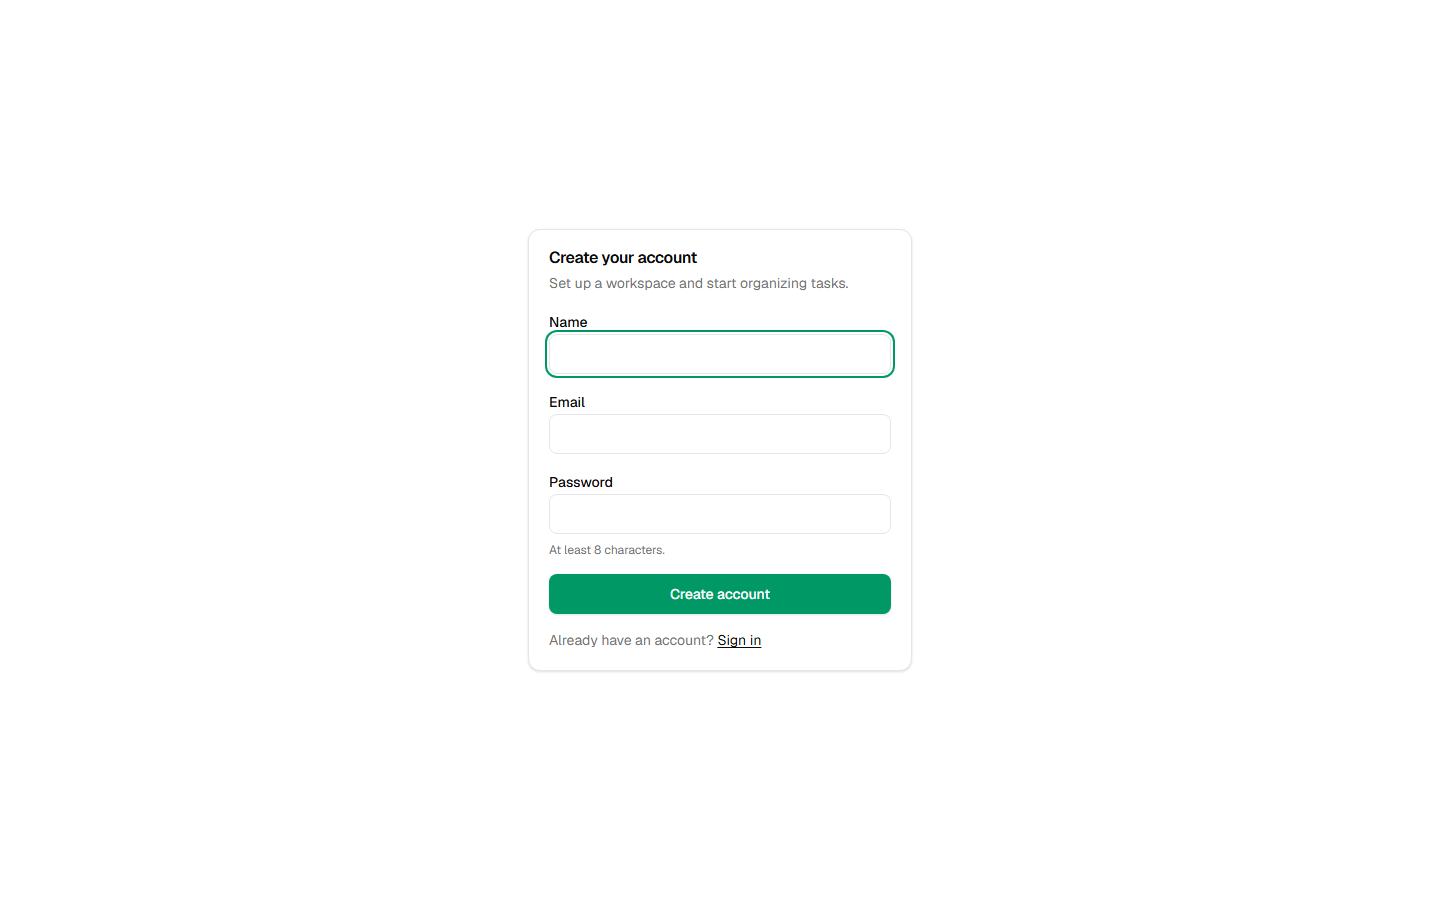
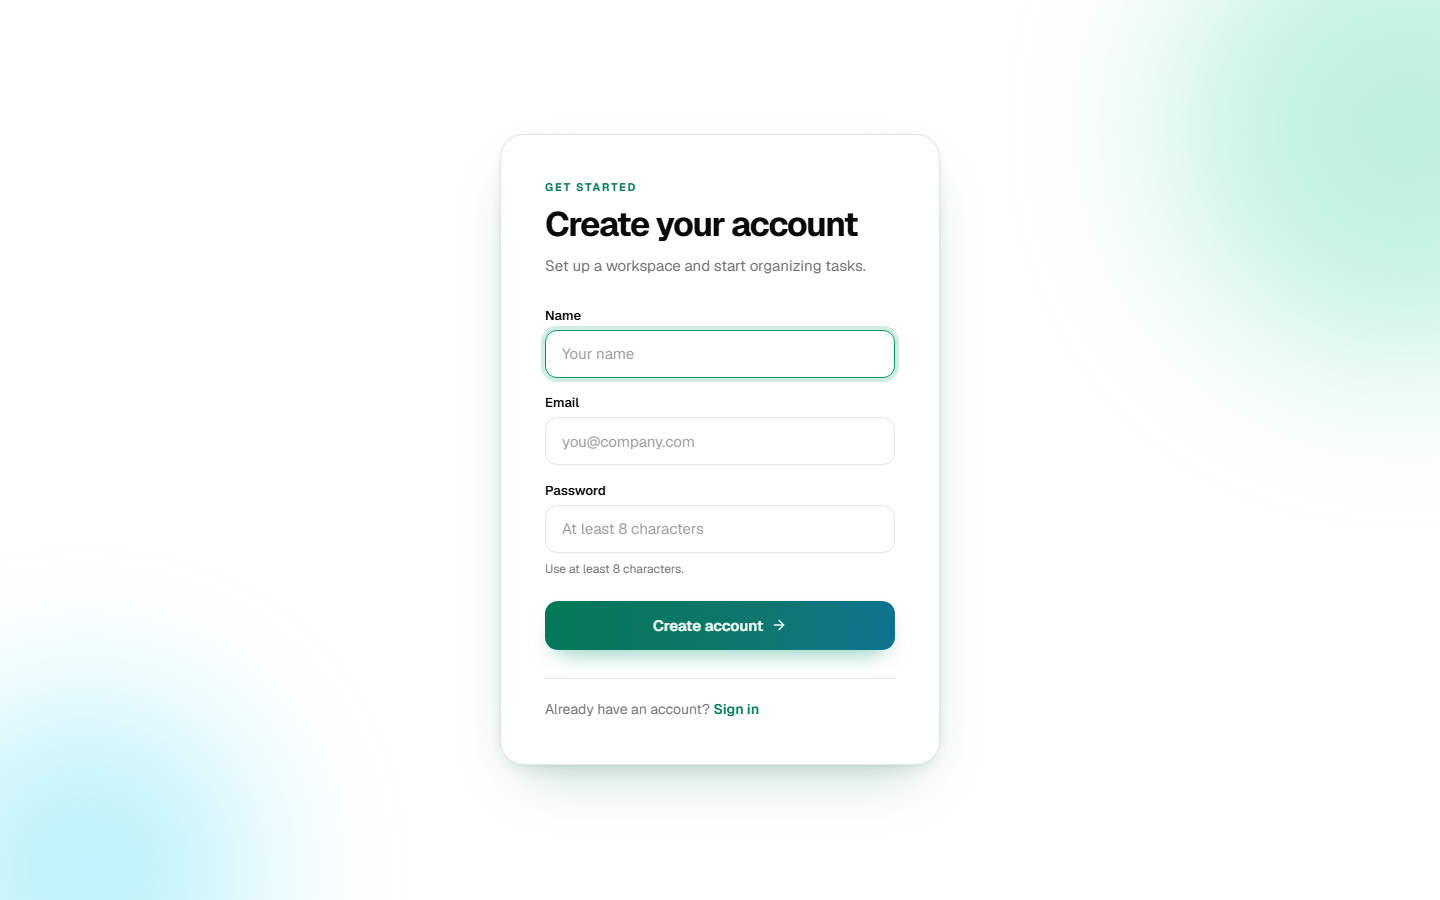
Polish signup and setup pages with shared auth styling
- Move auth styles to shared app/auth.css and apply emerald/cyan gradient
  background with drifting orbs to /signup and /setup
- Restyle both forms with elevated cards, large headings, focus glow,
  gradient submit buttons with loaders and accessible error states
- Refresh README signup screenshot

diff --git a/app/signup/signup-form.tsx b/app/signup/signup-form.tsx
@@ -3,9 +3,9 @@
 import { useState } from 'react';
 import Link from 'next/link';
 import { Button } from '@/components/ui/button';
-import { Card, CardContent, CardDescription, CardHeader, CardTitle } from '@/components/ui/card';
 import { Input } from '@/components/ui/input';
 import { Label } from '@/components/ui/label';
+import { ArrowRight, Kanban, Loader2 } from 'lucide-react';
 
 export default function SignUpForm() {
   const [name, setName] = useState('');
@@ -42,35 +42,75 @@ export default function SignUpForm() {
   };
 
   return (
-    <Card className="w-full max-w-sm">
-      <CardHeader>
-        <CardTitle>Create your account</CardTitle>
-        <CardDescription>Set up a workspace and start organizing tasks.</CardDescription>
-      </CardHeader>
-      <CardContent>
-        <form onSubmit={submit} className="space-y-4">
-          <div className="space-y-2">
-            <Label htmlFor="name">Name</Label>
-            <Input id="name" name="name" autoComplete="name" value={name} onChange={(e) => setName(e.target.value)} required autoFocus />
-          </div>
-          <div className="space-y-2">
-            <Label htmlFor="email">Email</Label>
-            <Input id="email" name="email" type="email" autoComplete="username" value={email} onChange={(e) => setEmail(e.target.value)} required />
-          </div>
-          <div className="space-y-2">
-            <Label htmlFor="password">Password</Label>
-            <Input id="password" name="password" type="password" autoComplete="new-password" minLength={8} value={password} onChange={(e) => setPassword(e.target.value)} required />
-            <p className="text-xs text-muted-foreground">At least 8 characters.</p>
-          </div>
-          {error && <p className="text-sm text-destructive" role="alert">{error}</p>}
-          <Button type="submit" className="w-full" disabled={submitting}>
-            {submitting ? 'Creating...' : 'Create account'}
-          </Button>
-        </form>
-        <p className="mt-4 text-sm text-muted-foreground">
-          Already have an account? <Link href="/login" className="text-foreground underline underline-offset-2">Sign in</Link>
-        </p>
-      </CardContent>
-    </Card>
+    <div className='auth-card'>
+      <div className='auth-mobile-brand'>
+        <span className='auth-brand-mark'><Kanban className='h-5 w-5' aria-hidden='true' /></span>
+      </div>
+
+      <p className='auth-eyebrow'>Get started</p>
+      <h1 className='auth-title'>Create your account</h1>
+      <p className='auth-subtitle'>Set up a workspace and start organizing tasks.</p>
+
+      <form onSubmit={submit} className='auth-form'>
+        <div className='auth-field'>
+          <Label htmlFor='name' className='auth-label'>Name</Label>
+          <Input
+            id='name'
+            className='auth-input'
+            name='name'
+            autoComplete='name'
+            placeholder='Your name'
+            value={name}
+            onChange={(e) => setName(e.target.value)}
+            required
+            autoFocus
+          />
+        </div>
+        <div className='auth-field'>
+          <Label htmlFor='email' className='auth-label'>Email</Label>
+          <Input
+            id='email'
+            className='auth-input'
+            name='email'
+            type='email'
+            autoComplete='username'
+            placeholder='you@company.com'
+            value={email}
+            onChange={(e) => setEmail(e.target.value)}
+            required
+          />
+        </div>
+        <div className='auth-field'>
+          <Label htmlFor='password' className='auth-label'>Password</Label>
+          <Input
+            id='password'
+            className='auth-input'
+            name='password'
+            type='password'
+            autoComplete='new-password'
+            minLength={8}
+            placeholder='At least 8 characters'
+            value={password}
+            onChange={(e) => setPassword(e.target.value)}
+            required
+          />
+          <p className='text-xs text-muted-foreground'>Use at least 8 characters.</p>
+        </div>
+
+        {error && <p className='auth-error' role='alert'>{error}</p>}
+
+        <Button type='submit' className='auth-submit w-full' disabled={submitting}>
+          {submitting ? (
+            <><Loader2 className='h-4 w-4 auth-spinner' aria-hidden='true' /> Creating...</>
+          ) : (
+            <>Create account <ArrowRight className='h-4 w-4' aria-hidden='true' /></>
+          )}
+        </Button>
+      </form>
+
+      <p className='auth-footnote'>
+        Already have an account? <Link href='/login' className='auth-link'>Sign in</Link>
+      </p>
+    </div>
   );
 }

diff --git a/app/setup/setup-form.tsx b/app/setup/setup-form.tsx
@@ -3,9 +3,9 @@
 import { useState } from 'react';
 import { useRouter } from 'next/navigation';
 import { Button } from '@/components/ui/button';
-import { Card, CardContent, CardDescription, CardHeader, CardTitle } from '@/components/ui/card';
 import { Input } from '@/components/ui/input';
 import { Label } from '@/components/ui/label';
+import { ArrowRight, Kanban, Loader2 } from 'lucide-react';
 
 export default function SetupForm() {
   const [name, setName] = useState('');
@@ -38,31 +38,41 @@ export default function SetupForm() {
   };
 
   return (
-    <Card className="w-full max-w-sm">
-      <CardHeader>
-        <CardTitle>Welcome to TaskForge</CardTitle>
-        <CardDescription>Create your first workspace to get started.</CardDescription>
-      </CardHeader>
-      <CardContent>
-        <form onSubmit={submit} className="space-y-4">
-          <div className="space-y-2">
-            <Label htmlFor="name">Workspace name</Label>
-            <Input
-              id="name"
-              name="name"
-              placeholder="Acme Team"
-              value={name}
-              onChange={(e) => setName(e.target.value)}
-              required
-              autoFocus
-            />
-          </div>
-          {error && <p className="text-sm text-destructive" role="alert">{error}</p>}
-          <Button type="submit" className="w-full" disabled={submitting}>
-            {submitting ? 'Creating...' : 'Create workspace'}
-          </Button>
-        </form>
-      </CardContent>
-    </Card>
+    <div className='auth-card'>
+      <div className='auth-mobile-brand'>
+        <span className='auth-brand-mark'><Kanban className='h-5 w-5' aria-hidden='true' /></span>
+      </div>
+
+      <p className='auth-eyebrow'>One last step</p>
+      <h1 className='auth-title'>Welcome to TaskForge</h1>
+      <p className='auth-subtitle'>Create your first workspace to get started.</p>
+
+      <form onSubmit={submit} className='auth-form'>
+        <div className='auth-field'>
+          <Label htmlFor='name' className='auth-label'>Workspace name</Label>
+          <Input
+            id='name'
+            className='auth-input'
+            name='name'
+            placeholder='Acme Team'
+            value={name}
+            onChange={(e) => setName(e.target.value)}
+            required
+            autoFocus
+          />
+          <p className='text-xs text-muted-foreground'>You can rename it later in settings.</p>
+        </div>
+
+        {error && <p className='auth-error' role='alert'>{error}</p>}
+
+        <Button type='submit' className='auth-submit w-full' disabled={submitting}>
+          {submitting ? (
+            <><Loader2 className='h-4 w-4 auth-spinner' aria-hidden='true' /> Creating...</>
+          ) : (
+            <>Create workspace <ArrowRight className='h-4 w-4' aria-hidden='true' /></>
+          )}
+        </Button>
+      </form>
+    </div>
   );
 }

diff --git a/app/setup/page.tsx b/app/setup/page.tsx
@@ -3,6 +3,7 @@ import { prisma } from '@/lib/prisma';
 import { headers } from 'next/headers';
 import { redirect } from 'next/navigation';
 import SetupForm from './setup-form';
+import '../auth.css';
 
 export default async function SetupPage() {
   const session = await auth.api.getSession({ headers: await headers() });
@@ -14,8 +15,12 @@ export default async function SetupPage() {
   if (membership) redirect('/');
 
   return (
-    <main className="flex min-h-screen items-center justify-center bg-background p-4">
-      <SetupForm />
+    <main className='auth-shell auth-shell-single'>
+      <section className='auth-panel' aria-label='Set up your workspace'>
+        <div className='auth-orb auth-orb-a' aria-hidden='true' />
+        <div className='auth-orb auth-orb-b' aria-hidden='true' />
+        <SetupForm />
+      </section>
     </main>
   );
 }

diff --git a/app/signup/page.tsx b/app/signup/page.tsx
@@ -2,14 +2,19 @@ import { auth } from '@/lib/auth';
 import { headers } from 'next/headers';
 import { redirect } from 'next/navigation';
 import SignUpForm from './signup-form';
+import '../auth.css';
 
 export default async function SignUpPage() {
   const session = await auth.api.getSession({ headers: await headers() });
   if (session) redirect('/');
 
   return (
-    <main className="flex min-h-screen items-center justify-center bg-background p-4">
-      <SignUpForm />
+    <main className='auth-shell auth-shell-single'>
+      <section className='auth-panel' aria-label='Create an account'>
+        <div className='auth-orb auth-orb-a' aria-hidden='true' />
+        <div className='auth-orb auth-orb-b' aria-hidden='true' />
+        <SignUpForm />
+      </section>
     </main>
   );
 }

diff --git a/app/auth.css b/app/auth.css
@@ -1,4 +1,14 @@
-/* Sign-in page — one emerald/teal system, real product UI, quiet motion. */
+/* Shared auth-page system — emerald/teal, real product UI, quiet motion. */
+
+.auth-shell-single {
+  grid-template-columns: minmax(0, 1fr) !important;
+  background:
+    radial-gradient(60% 55% at 88% -5%, rgb(16 185 129 / 0.12), transparent 70%),
+    radial-gradient(55% 55% at 0% 105%, rgb(8 145 178 / 0.12), transparent 70%),
+    var(--background);
+}
+
+.auth-shell-single .auth-orb { opacity: 0.32; }
 
 .auth-shell {
   position: relative;

diff --git a/app/login/page.tsx b/app/login/page.tsx
@@ -3,7 +3,7 @@ import { headers } from 'next/headers';
 import { redirect } from 'next/navigation';
 import { Check, Kanban } from 'lucide-react';
 import LoginForm from './login-form';
-import './login.css';
+import '../auth.css';
 
 export default async function LoginPage() {
   const session = await auth.api.getSession({ headers: await headers() });
